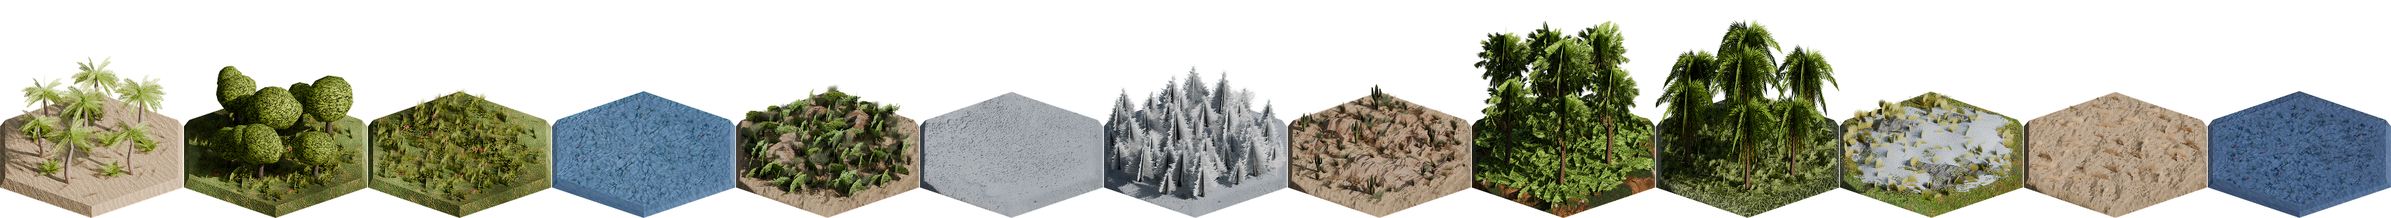
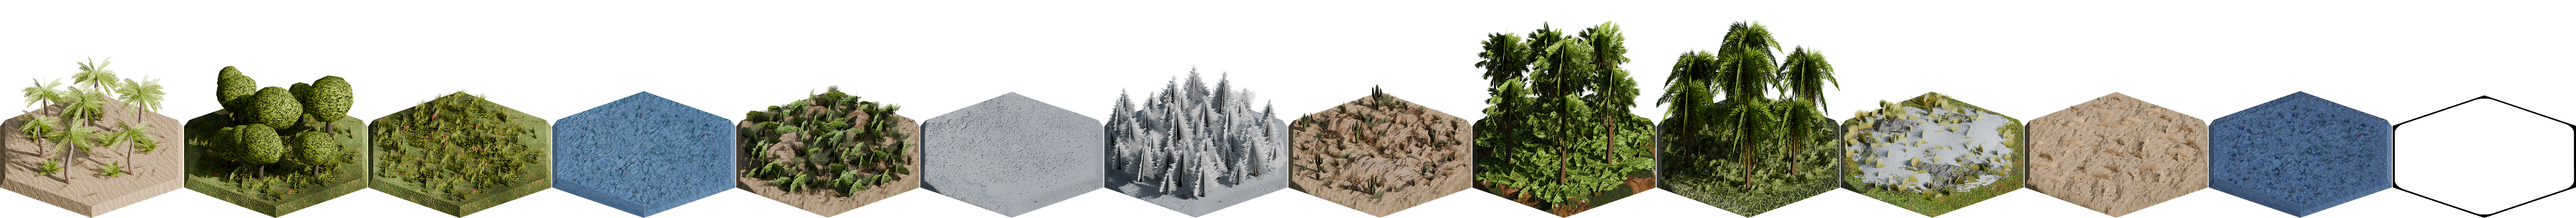
feat: worldmap bg

diff --git a/client/apps/eternum-mobile/src/shared/lib/three/scenes/base-scene.ts b/client/apps/eternum-mobile/src/shared/lib/three/scenes/base-scene.ts
@@ -1,10 +1,178 @@
 import { DojoResult } from "@bibliothecadao/react";
 import * as THREE from "three";
+import { GUIManager } from "../helpers/gui-manager";
+import { SystemManager } from "../system/system-manager";
+import { TileRenderer } from "./tile-renderer";
+import { getWorldPositionForHex } from "./utils";
 
-export interface BaseScene {
-  getScene(): THREE.Scene;
-  update(camera: THREE.Camera): void;
-  handleClick?(mouse: THREE.Vector2, camera: THREE.Camera): void;
-  dispose(): void;
-  getDojo?(): DojoResult;
+export abstract class BaseScene {
+  protected scene: THREE.Scene;
+  protected dojo: DojoResult;
+  protected systemManager: SystemManager;
+  protected tileRenderer: TileRenderer;
+  protected raycaster: THREE.Raycaster;
+  protected GUIFolder: any;
+
+  // Lighting components
+  protected ambientLight!: THREE.AmbientLight;
+  protected directionalLight!: THREE.DirectionalLight;
+  protected lightHelper?: THREE.DirectionalLightHelper;
+
+  // Ground mesh background
+  protected groundMesh?: THREE.Mesh;
+
+  // Reusable objects to avoid creation in loops
+  protected tempVector3 = new THREE.Vector3();
+  protected tempColor = new THREE.Color();
+  protected tempQuaternion = new THREE.Quaternion();
+  protected tempMatrix = new THREE.Matrix4();
+
+  constructor(dojo: DojoResult, sceneId?: string) {
+    this.dojo = dojo;
+    this.scene = new THREE.Scene();
+    this.systemManager = new SystemManager(this.dojo.setup);
+    this.tileRenderer = new TileRenderer(this.scene);
+    this.raycaster = new THREE.Raycaster();
+
+    this.initializeScene();
+    this.setupLighting();
+    this.createGroundMesh();
+    this.setupGUI(sceneId);
+  }
+
+  protected initializeScene(): void {
+    this.scene.background = new THREE.Color(0x8790a1);
+  }
+
+  protected setupLighting(): void {
+    this.ambientLight = new THREE.AmbientLight(0xffffff, 0.6);
+    this.scene.add(this.ambientLight);
+
+    this.directionalLight = new THREE.DirectionalLight(0xffffff, 0.8);
+    this.directionalLight.position.set(10, 10, 5);
+    this.directionalLight.castShadow = true;
+    this.scene.add(this.directionalLight);
+  }
+
+  protected createGroundMesh(): void {
+    const scale = 60;
+    const metalness = 0;
+    const roughness = 0.66;
+
+    const geometry = new THREE.PlaneGeometry(2668, 1390.35);
+    const texture = new THREE.TextureLoader().load("/images/worldmap-bg.png", () => {
+      texture.colorSpace = THREE.SRGBColorSpace;
+      texture.wrapS = THREE.RepeatWrapping;
+      texture.wrapT = THREE.RepeatWrapping;
+      texture.repeat.set(scale, scale / 2.5);
+    });
+
+    const material = new THREE.MeshStandardMaterial({
+      map: texture,
+      metalness: metalness,
+      roughness: roughness,
+      side: THREE.DoubleSide,
+    });
+
+    const mesh = new THREE.Mesh(geometry, material);
+    mesh.rotation.set(Math.PI / 2, 0, Math.PI);
+    const { x, z } = getWorldPositionForHex({ col: 185, row: 150 });
+    mesh.position.set(x, -0.05, z);
+    mesh.receiveShadow = true;
+    mesh.raycast = () => {};
+
+    this.scene.add(mesh);
+    this.groundMesh = mesh;
+  }
+
+  protected setupGUI(sceneId?: string): void {
+    this.GUIFolder = GUIManager.addFolder(sceneId || "BaseScene");
+    this.setupSceneGUI();
+    this.setupLightingGUI();
+    this.setupGroundMeshGUI();
+  }
+
+  protected setupSceneGUI(): void {
+    this.GUIFolder.addColor(this.scene, "background").name("Background Color");
+    this.GUIFolder.close();
+  }
+
+  protected setupLightingGUI(): void {
+    const ambientLightFolder = this.GUIFolder.addFolder("Ambient Light");
+    ambientLightFolder.addColor(this.ambientLight, "color").name("Color");
+    ambientLightFolder.add(this.ambientLight, "intensity", 0, 3, 0.1).name("Intensity");
+    ambientLightFolder.close();
+
+    const directionalLightFolder = this.GUIFolder.addFolder("Directional Light");
+    directionalLightFolder.addColor(this.directionalLight, "color").name("Color");
+    directionalLightFolder.add(this.directionalLight.position, "x", -20, 20, 0.1).name("Position X");
+    directionalLightFolder.add(this.directionalLight.position, "y", -20, 20, 0.1).name("Position Y");
+    directionalLightFolder.add(this.directionalLight.position, "z", -20, 20, 0.1).name("Position Z");
+    directionalLightFolder.add(this.directionalLight, "intensity", 0, 3, 0.1).name("Intensity");
+    directionalLightFolder.close();
+  }
+
+  protected setupGroundMeshGUI(): void {
+    if (!this.groundMesh) return;
+
+    const groundMeshFolder = this.GUIFolder.addFolder("Ground Mesh");
+    groundMeshFolder.add(this.groundMesh.material, "metalness", 0, 1, 0.01).name("Metalness");
+    groundMeshFolder.add(this.groundMesh.material, "roughness", 0, 1, 0.01).name("Roughness");
+    groundMeshFolder.close();
+  }
+
+  public getScene(): THREE.Scene {
+    return this.scene;
+  }
+
+  public getDojo(): DojoResult {
+    return this.dojo;
+  }
+
+  public getSystemManager(): SystemManager {
+    return this.systemManager;
+  }
+
+  public getTileRenderer(): TileRenderer {
+    return this.tileRenderer;
+  }
+
+  public getRaycaster(): THREE.Raycaster {
+    return this.raycaster;
+  }
+
+  public getGroundMesh(): THREE.Mesh | undefined {
+    return this.groundMesh;
+  }
+
+  public abstract update(camera: THREE.Camera): void;
+
+  public abstract handleClick(mouse: THREE.Vector2, camera: THREE.Camera): void;
+
+  public dispose(): void {
+    this.tileRenderer.dispose();
+
+    if (this.groundMesh) {
+      this.scene.remove(this.groundMesh);
+      this.groundMesh.geometry.dispose();
+      if (Array.isArray(this.groundMesh.material)) {
+        this.groundMesh.material.forEach((material) => material.dispose());
+      } else {
+        this.groundMesh.material.dispose();
+      }
+    }
+
+    this.scene.traverse((object) => {
+      if (object instanceof THREE.Mesh) {
+        object.geometry.dispose();
+        if (Array.isArray(object.material)) {
+          object.material.forEach((material) => material.dispose());
+        } else {
+          object.material.dispose();
+        }
+      }
+    });
+
+    this.scene.clear();
+  }
 }

diff --git a/client/apps/eternum-mobile/src/shared/lib/three/scenes/generic-scene.ts b/client/apps/eternum-mobile/src/shared/lib/three/scenes/generic-scene.ts
@@ -3,21 +3,17 @@ import * as THREE from "three";
 import { SCENE_COLORS } from "../constants";
 import { BaseScene } from "./base-scene";
 
-export class GenericScene implements BaseScene {
-  private scene: THREE.Scene;
+export class GenericScene extends BaseScene {
   private sceneId: string;
-  private dojo: DojoResult;
 
   constructor(sceneId: string, dojo: DojoResult) {
+    super(dojo, sceneId);
     this.sceneId = sceneId;
-    this.dojo = dojo;
-    this.scene = new THREE.Scene();
     this.createScene();
   }
 
   private createScene(): void {
     this.addDummyObjects();
-    this.addLighting();
   }
 
   private addDummyObjects(): void {
@@ -27,7 +23,7 @@ export class GenericScene implements BaseScene {
     const planeGeometry = new THREE.PlaneGeometry(20, 20);
     const planeMaterial = new THREE.MeshLambertMaterial({ color: colors.plane });
     const plane = new THREE.Mesh(planeGeometry, planeMaterial);
-    plane.rotation.x = -Math.PI / 2; // Rotate to be horizontal
+    plane.rotation.x = -Math.PI / 2;
     plane.receiveShadow = true;
     this.scene.add(plane);
 
@@ -40,46 +36,11 @@ export class GenericScene implements BaseScene {
     this.scene.add(box);
   }
 
-  private addLighting(): void {
-    // Ambient light for overall illumination
-    const ambientLight = new THREE.AmbientLight(0xffffff, 0.6);
-    this.scene.add(ambientLight);
-
-    // Directional light for shadows and depth
-    const directionalLight = new THREE.DirectionalLight(0xffffff, 0.8);
-    directionalLight.position.set(10, 10, 5);
-    directionalLight.castShadow = true;
-    this.scene.add(directionalLight);
-  }
-
-  public getScene(): THREE.Scene {
-    return this.scene;
-  }
-
   public update(camera: THREE.Camera): void {
     // Generic scenes don't need updates by default
-    // Can be overridden by specific scene implementations
   }
 
   public handleClick(mouse: THREE.Vector2, camera: THREE.Camera): void {
-    // Generic click handling - can be overridden
     console.log(`Click on ${this.sceneId} scene`);
-  }
-
-  public dispose(): void {
-    this.scene.traverse((object) => {
-      if (object instanceof THREE.Mesh) {
-        object.geometry.dispose();
-        if (Array.isArray(object.material)) {
-          object.material.forEach((material) => material.dispose());
-        } else {
-          object.material.dispose();
-        }
-      }
-    });
-  }
-
-  public getDojo(): DojoResult {
-    return this.dojo;
   }
 }

diff --git a/client/apps/eternum-mobile/src/shared/lib/three/scenes/worldmap-scene.ts b/client/apps/eternum-mobile/src/shared/lib/three/scenes/worldmap-scene.ts
@@ -1,24 +1,17 @@
 import { DojoResult } from "@bibliothecadao/react";
 import * as THREE from "three";
-import { SystemManager } from "../system/system-manager";
 import { BaseScene } from "./base-scene";
 import { HexagonMap } from "./hexagon-map";
 
-export class WorldmapScene implements BaseScene {
-  private scene: THREE.Scene;
+export class WorldmapScene extends BaseScene {
   private hexagonMap!: HexagonMap;
-  private systemManager!: SystemManager;
-  private dojo: DojoResult;
 
   constructor(dojo: DojoResult) {
-    this.dojo = dojo;
-    this.scene = new THREE.Scene();
-    this.systemManager = new SystemManager(this.dojo.setup);
+    super(dojo, "WorldMap");
     this.createScene();
   }
 
   private createScene(): void {
-    this.addLighting();
     this.createHexagonMap();
   }
 
@@ -26,28 +19,8 @@ export class WorldmapScene implements BaseScene {
     this.hexagonMap = new HexagonMap(this.scene, this.dojo, this.systemManager);
   }
 
-  private addLighting(): void {
-    // Ambient light for overall illumination
-    const ambientLight = new THREE.AmbientLight(0xffffff, 0.6);
-    this.scene.add(ambientLight);
-
-    // Directional light for shadows and depth
-    const directionalLight = new THREE.DirectionalLight(0xffffff, 0.8);
-    directionalLight.position.set(10, 10, 5);
-    directionalLight.castShadow = true;
-    this.scene.add(directionalLight);
-  }
-
-  public getScene(): THREE.Scene {
-    return this.scene;
-  }
-
   public getHexagonMap(): HexagonMap {
     return this.hexagonMap;
-  }
-
-  public getDojo(): DojoResult {
-    return this.dojo;
   }
 
   public update(camera: THREE.Camera): void {
@@ -61,16 +34,6 @@ export class WorldmapScene implements BaseScene {
 
   public dispose(): void {
     this.hexagonMap.dispose();
-
-    this.scene.traverse((object) => {
-      if (object instanceof THREE.Mesh) {
-        object.geometry.dispose();
-        if (Array.isArray(object.material)) {
-          object.material.forEach((material) => material.dispose());
-        } else {
-          object.material.dispose();
-        }
-      }
-    });
+    super.dispose();
   }
 }

diff --git a/client/apps/eternum-mobile/src/shared/lib/three/scenes/tile-renderer.ts b/client/apps/eternum-mobile/src/shared/lib/three/scenes/tile-renderer.ts
@@ -78,6 +78,7 @@ export class TileRenderer {
         TileRenderer.tileTexture,
       ); // Fifteenth tile (index 14)
       this.createTileMaterial(BiomeTypeToId[BiomeType.TropicalRainForest], 9, tilesPerRow, TileRenderer.tileTexture); // Sixteenth tile (index 15)
+      this.createTileMaterial(17, 13, tilesPerRow, TileRenderer.tileTexture); // Sixteenth tile (index 15)
 
       // Create prototype sprites for each tile type
       this.createPrototypeSprites();

diff --git a/client/apps/eternum-mobile/src/shared/lib/three/scenes/index.ts b/client/apps/eternum-mobile/src/shared/lib/three/scenes/index.ts
@@ -1,4 +1,4 @@
-export type { BaseScene } from "./base-scene";
+export { BaseScene } from "./base-scene";
 export { Chunk } from "./chunk";
 export type { ChunkCoordinates } from "./chunk";
 export { GenericScene } from "./generic-scene";
